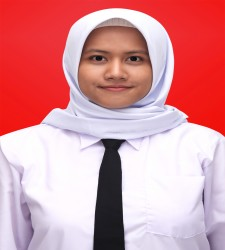
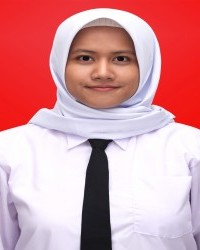
indx-tim

diff --git a/public/index.php b/public/index.php
@@ -396,18 +396,18 @@ function scrollDown() {
                                 <?php
                                     $team = [
                                         ['name'=>'Dr. Rakhmat Arianto, S.ST., M.Kom.','title'=>'Kepala Lab','img'=>'assets/Dosen/Rakhmat-Arianto.jpg'],
-                                        ['name'=>'Rokhimatul Wakhidah, S.Pd., M.T.','title'=>'Peneliti','img'=>'assets/images/team-2.jpg'],
-                                        ['name'=>'Ir. Rudy Ariyanto, S.T., M.Cs.','title'=>'Peneliti','img'=>'assets/images/team-3.jpg'],
-                                        ['name'=>'Ahmadi Yuli Ananta, ST., M.M.','title'=>'Peneliti','img'=>'assets/images/team-4.jpg'],
-                                        ['name'=>'Candra Bella Vista, S.Kom., MT.','title'=>'Peneliti','img'=>'assets/images/team-5.jpg'],
-                                        ['name'=>'Endah Septa Sintiya, S.Pd., M.Kom','title'=>'Peneliti','img'=>'assets/images/team-6.jpg'],
-                                        ['name'=>'Dhebys Suryani, S.Kom., MT','title'=>'Peneliti','img'=>'assets/images/team-7.jpg'],
-                                        ['name'=>'Farid Angga Pribadi, S.Kom.,M.Kom.','title'=>'Peneliti','img'=>'assets/images/team-8.jpg'],
-                                        ['name'=>'Hendra Pradibta, S.E., M.Sc.','title'=>'Peneliti','img'=>'assets/images/team-9.jpg']
+                                        ['name'=>'Rokhimatul Wakhidah, S.Pd., M.T.','title'=>'Peneliti','img'=>'assets/Dosen/Rokhimatul-Wakhidah.jpg'],
+                                        ['name'=>'Ir. Rudy Ariyanto, S.T., M.Cs.','title'=>'Peneliti','img'=>'assets/Dosen/Rudi-Ariyanto.jpg'],
+                                        ['name'=>'Ahmadi Yuli Ananta, ST., M.M.','title'=>'Peneliti','img'=>'assets/Dosen/ahmadi-putih.jpg'],
+                                        ['name'=>'Candra Bella Vista, S.Kom., MT.','title'=>'Peneliti','img'=>'assets/Dosen/Candra-Bella-Vista.jpg'],
+                                        ['name'=>'Endah Septa Sintiya, S.Pd., M.Kom','title'=>'Peneliti','img'=>'assets/Dosen/Endah-Septa-Sintiya.jpg'],
+                                        ['name'=>'Dhebys Suryani, S.Kom., MT','title'=>'Peneliti','img'=>'assets/Dosen/Dhebys-Suryani.jpg'],
+                                        ['name'=>'Farid Angga Pribadi, S.Kom.,M.Kom.','title'=>'Peneliti','img'=>'assets/Dosen/Farid-Angga-Pribadi.jpg'],
+                                        ['name'=>'Hendra Pradibta, S.E., M.Sc.','title'=>'Peneliti','img'=>'assets/Dosen/Hendra-Pradibta.jpg']
                                     ];
                                     foreach($team as $i => $member) {
-                                        echo '<div class="w-80 flex-shrink-0 bg-white rounded-xl shadow-lg overflow-hidden flex flex-col justify-between">';
-                                        echo '<div class="h-64 bg-gray-100 flex items-center justify-center">';
+                                        echo '<div class="w-60 flex-shrink-0 bg-white rounded-xl shadow-lg overflow-hidden flex flex-col justify-between">';
+                                        echo '<div class="h-70 bg-gray-100 flex items-center justify-center">';
                                         echo '<img src="'.htmlspecialchars($member['img']).'" alt="'.htmlspecialchars($member['name']).'" class="w-full h-full object-cover" onerror="this.onerror=null; this.src=\'https://placehold.co/540x360/EFEFEF/9A9A9A?text=Team\'">';
                                         echo '</div>';
                                         echo '<div class="p-6 text-center">';
